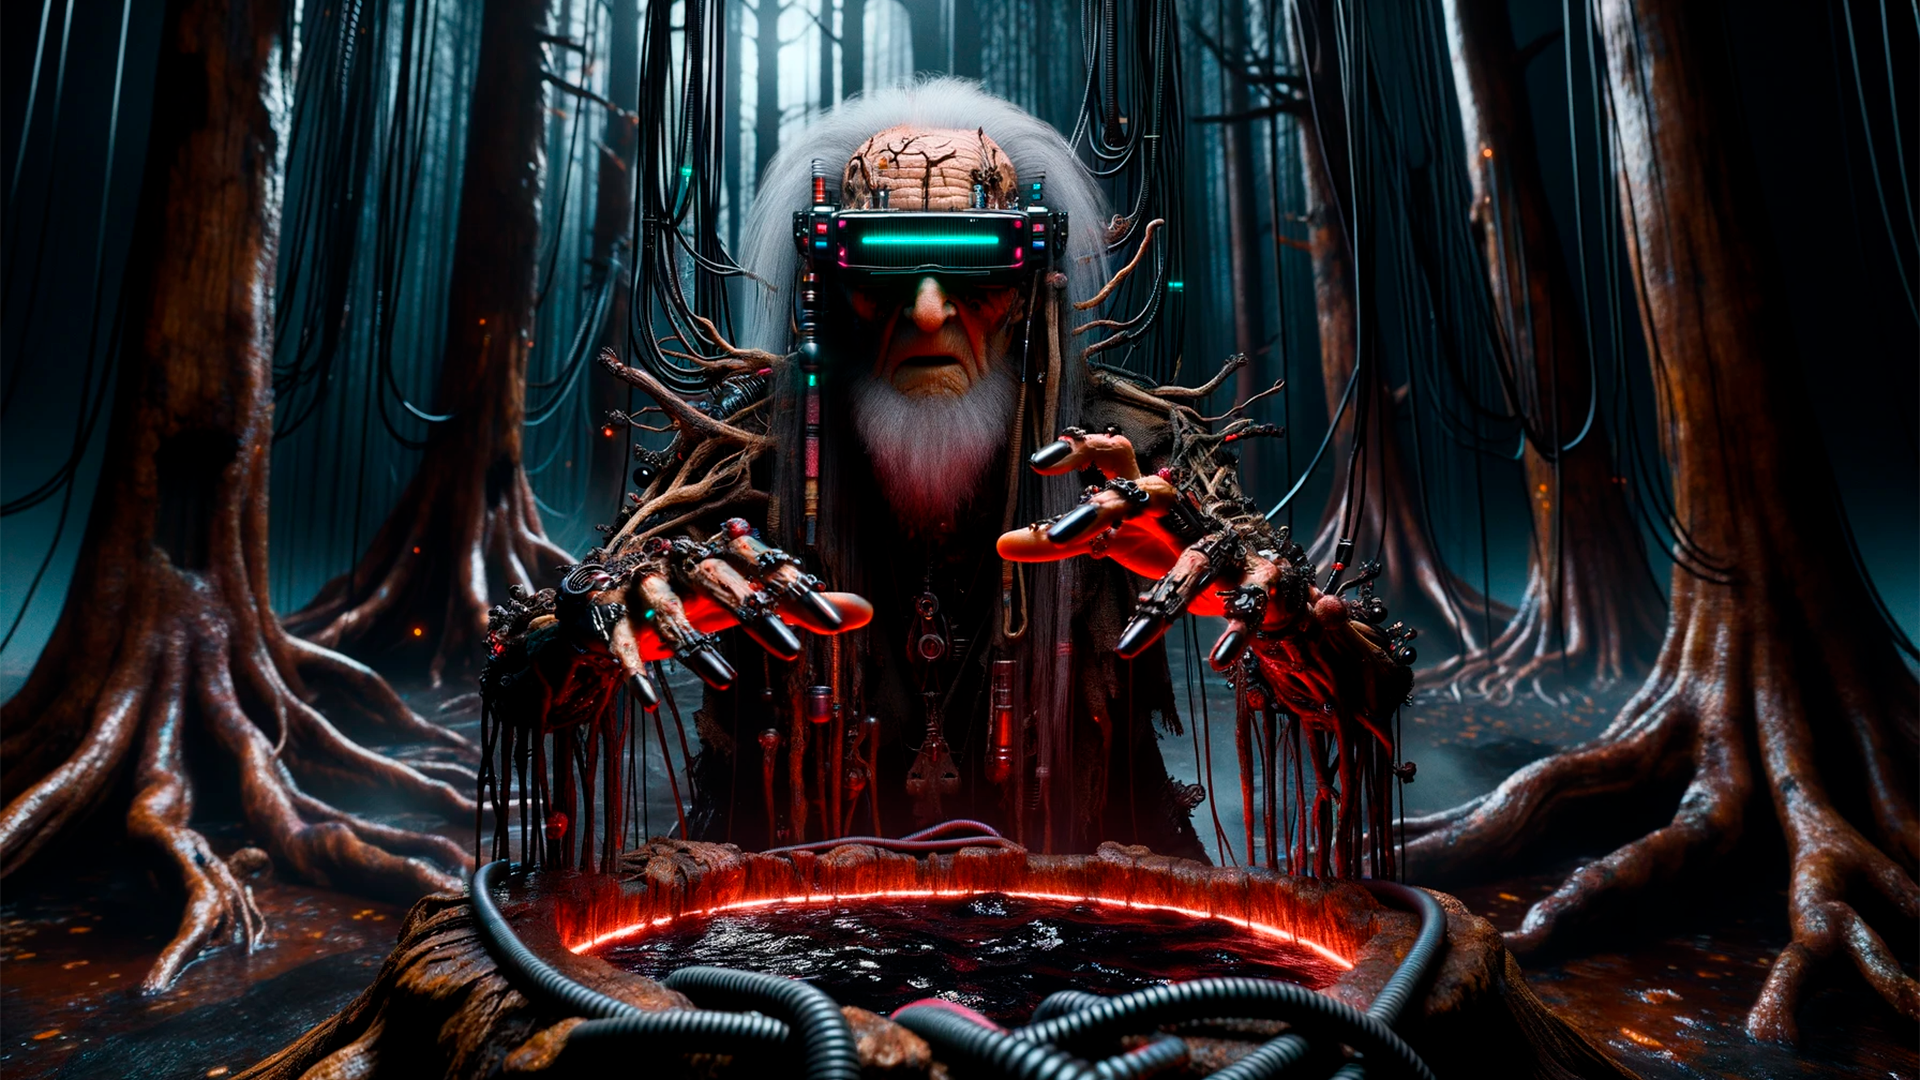
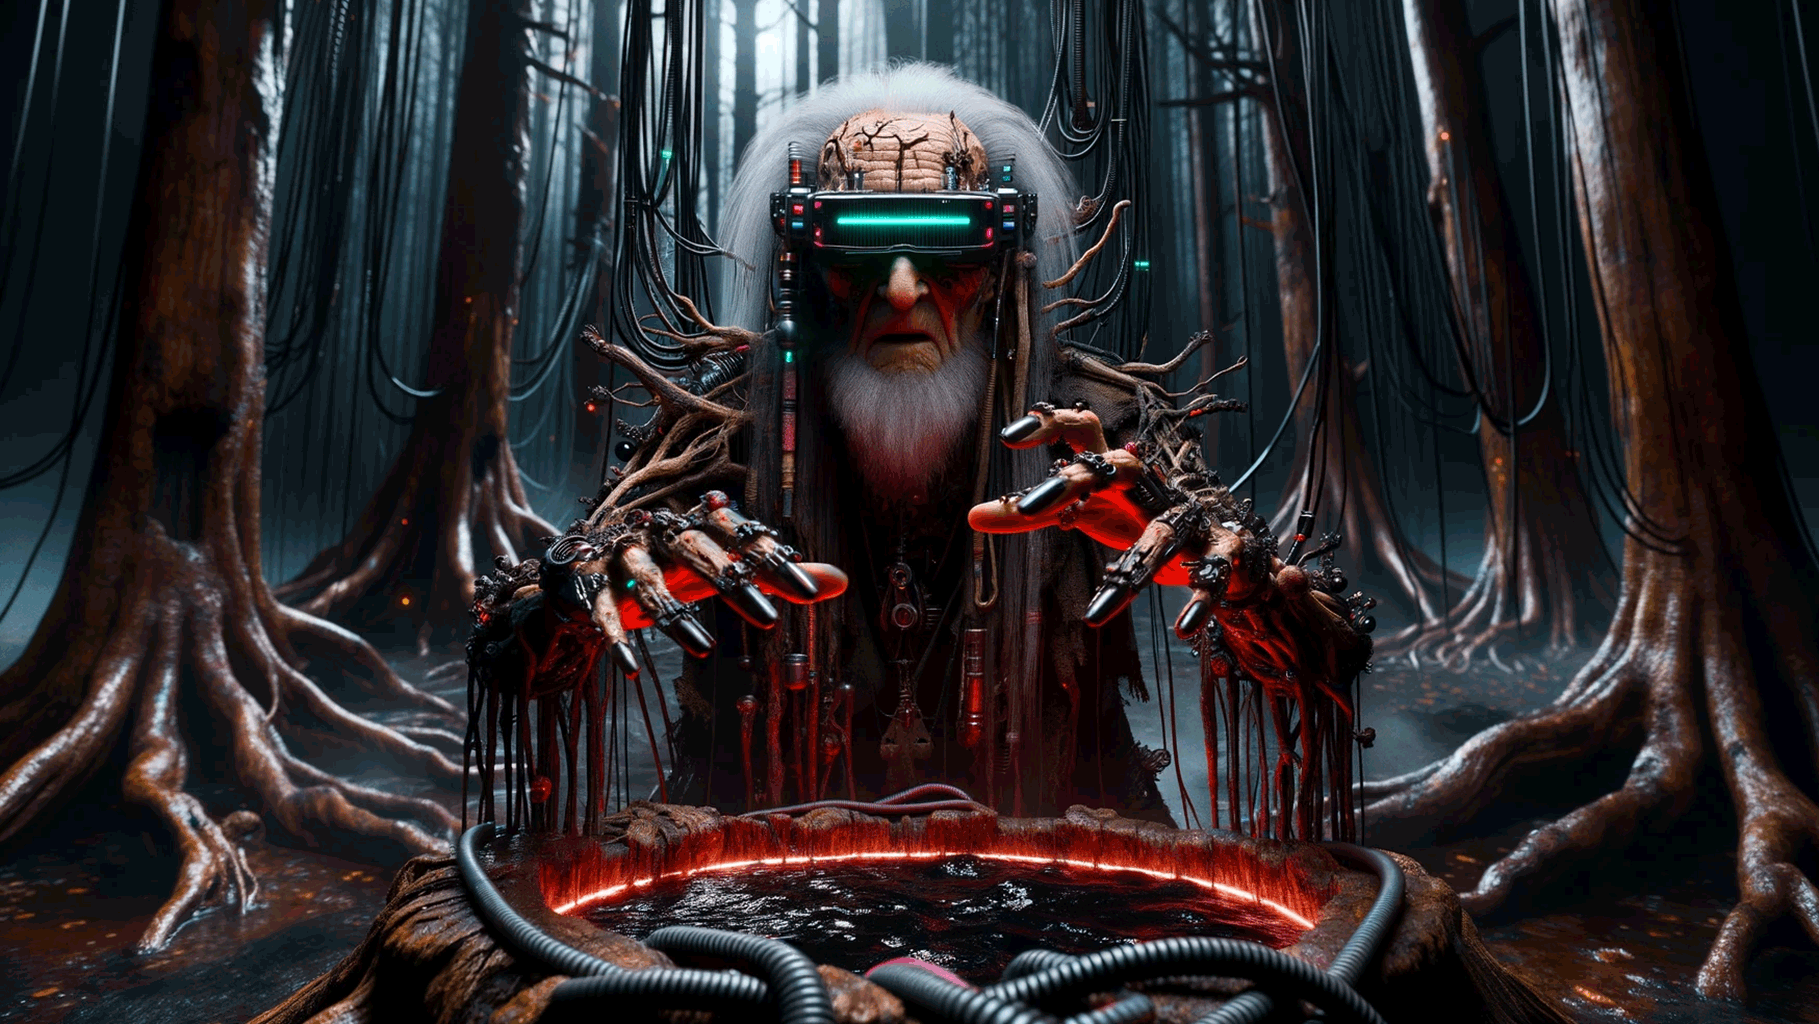
Page lament and loop final

diff --git a/css/loop/chapters.css b/css/loop/chapters.css
@@ -20,7 +20,8 @@
     font-size: 2.5rem;
 }
 
-.chapters article p {
+.chapters article img {
+    filter: grayscale(100%);
 }
 
 /* .chapters article a:hover h3{
@@ -34,7 +35,7 @@
     right: 8%;
     bottom: 10%;
 }
-  
+
 .chapter01 {
     position: relative;
 }
@@ -47,7 +48,7 @@
     bottom: 0;
     left: 0;
     background: url('/assets/img/loop/imgs/loopDR_wide_01.png') top/cover;
-    filter: brightness(.3);
+    filter: brightness(35%) grayscale(100%);
     z-index: -1;
 }
 
@@ -63,7 +64,7 @@
     bottom: 0;
     left: 0;
     background: url('/assets/img/loop/imgs/loopDR_wide_02.png') top/cover;
-    filter: brightness(.3);
+    filter: brightness(35%) grayscale(100%);
     z-index: -1;
 }
 
@@ -79,7 +80,7 @@
     bottom: 0;
     left: 0;
     background: url('/assets/img/loop/imgs/loopDR_wide_03.png') top/cover;
-    filter: brightness(.3);
+    filter: brightness(35%) grayscale(100%);
     z-index: -1;
 }
 
@@ -95,7 +96,7 @@
     bottom: 0;
     left: 0;
     background: url('/assets/img/loop/imgs/loopDR_wide_04.jpg') top/cover;
-    filter: brightness(.3);
+    filter: brightness(35%) grayscale(100%);
     z-index: -1;
 }
 
@@ -111,7 +112,7 @@
     bottom: 0;
     left: 0;
     background: url('/assets/img/loop/imgs/loopDR_wide_05.png') top/cover;
-    filter: brightness(.3);
+    filter: brightness(35%) grayscale(100%);
     z-index: -1;
 }
 
@@ -127,7 +128,7 @@
     bottom: 0;
     left: 0;
     background: url('/assets/img/loop/imgs/loopDR_wide_06.png') top/cover;
-    filter: brightness(.3);
+    filter: brightness(35%) grayscale(100%);
     z-index: -1;
 }
 
@@ -143,7 +144,7 @@
     bottom: 0;
     left: 0;
     background: url('/assets/img/loop/imgs/loopDR_wide_07.png') top/cover;
-    filter: brightness(.3);
+    filter: brightness(35%) grayscale(100%);
     z-index: -1;
 }
 
@@ -166,13 +167,12 @@
     .chapters article h3 {
         font-size: 2rem;
     }
-    
-    .chapters article p {
-    }
+
+    .chapters article p {}
 
     .chapters .lock {
         width: 40px;
-    
+
         position: absolute;
         right: 4%;
         bottom: 4%;
@@ -181,9 +181,10 @@
 
 @media screen and (max-width: 425px) {
     .chapters article h3 {
-        font-size: 1.7rem;
+        font-size: 1.5rem;
     }
-    
+
     .chapters article p {
+        font-size: 1.1rem;
     }
 }

diff --git a/css/loop/opening.css b/css/loop/opening.css
@@ -9,19 +9,18 @@
 }
 
 .opening article div{
-    height: 100vh;
+    height: 100%;
     max-width: 70%;
     margin: 0 auto;
 
     display: flex;
     flex-direction: column;
-    align-items: center;
     justify-content: center;
 }
 
 .opening h3 {
     font-size: 3rem;
-    text-align: center;
+    margin-top: 2rem;
     margin-bottom: 3rem;
 }
 
@@ -45,7 +44,7 @@
     .opening p {
     }
 }
-
+ 
 @media screen and (max-width: 800px) {
     .opening article div{
         max-width: 90%;
@@ -53,6 +52,7 @@
 
     .opening {
         height: auto;
+        padding: 2rem;
     }
 
     .opening h3 {
@@ -60,5 +60,6 @@
     }
 
     .opening p {
+        font-size: 1.1rem;
     }
 }

diff --git a/css/lament/chapters.css b/css/lament/chapters.css
@@ -64,6 +64,11 @@
 
 @media screen and (max-width: 425px) {
     .chapters article h3 {
-        font-size: 1.7rem;
+        font-size: 1.5rem;
+    }
+
+    .chapters article p {
+        line-height: 1.5;
+        font-size: 1.1rem;
     }
 }

diff --git a/css/lament/opening.css b/css/lament/opening.css
@@ -47,7 +47,6 @@
 @media screen and (max-width: 800px) {
     .opening {
         padding: 5rem 2rem;
-
     }
 
     .opening article div{
@@ -59,5 +58,6 @@
     }
 
     .opening p {
+        font-size: 1.1rem;
     }
 }
